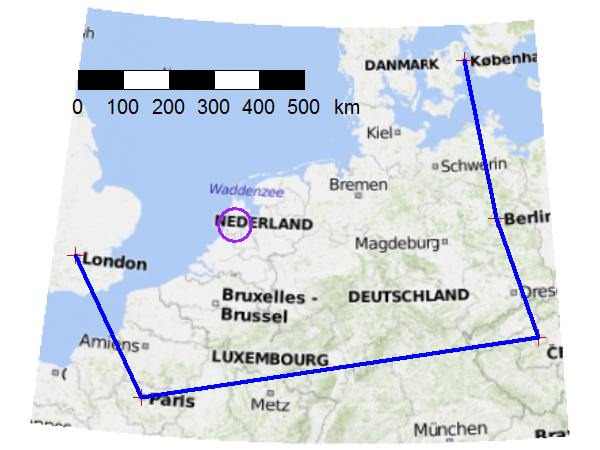
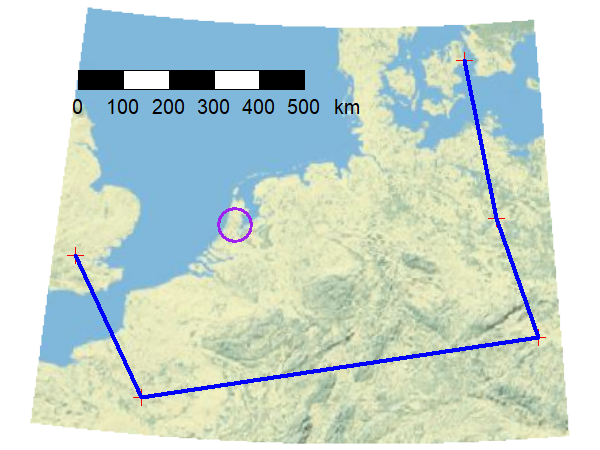
readme and example map updated

diff --git a/README.md b/README.md
@@ -8,14 +8,16 @@ There are some other spatially related miscellaneous functions as well.
 [![Rdoc](http://www.rdocumentation.org/badges/version/OSMscale)](http://www.rdocumentation.org/packages/OSMscale)
 
 It relies on [OpenStreetMap](https://blog.fellstat.com/?cat=5) to do the actual work,
-thus `rgdal` and `rjava` must be available, see [installation tips](https://bookdown.org/brry/course/packages.html#issues).
+thus `rjava` must be available, see [installation tips](https://bookdown.org/brry/course/packages.html#rjava-on-windows).
 
 ### usage
 
-Assuming a data.frame with lat-long coordinates:
 ```R
-# install.packages("OSMscale") 
+# installation:
+install.packages("OSMscale") 
 library(OSMscale)
+
+# table with lat-long coordinates:
 d <- read.table(sep=",", header=TRUE, text=
 "lat, long
 55.685143, 12.580008
@@ -23,13 +25,15 @@ d <- read.table(sep=",", header=TRUE, text=
 50.106452, 14.419989
 48.847003, 2.337213
 51.505364, -0.164752")
-png("ExampleMap.png", width=4, height=3, units="in", res=150)
+pointsMap(lat, long, data=d)
 
-map <- pointsMap(lat, long, data=d, type="maptoolkit-topo", proj=putm(d$long), scale=FALSE)
+# projections:
+png("ExampleMap.png", width=4, height=3, units="in", res=150)
+map <- pointsMap(lat, long, data=d, type="nps", proj=putm(d$long), scale=FALSE)
 scaleBar(map, abslen=500, y=0.8, cex=0.8)
 lines(projectPoints(d$lat, d$long), col="blue", lwd=3)
 points(projectPoints(52.386609, 4.877008, to=putm(zone=32)), cex=3, lwd=2, col="purple")
-
 dev.off()
 ```
 ![ExampleMap](https://github.com/brry/OSMscale/blob/master/ExampleMap.png "Example Map")
+
